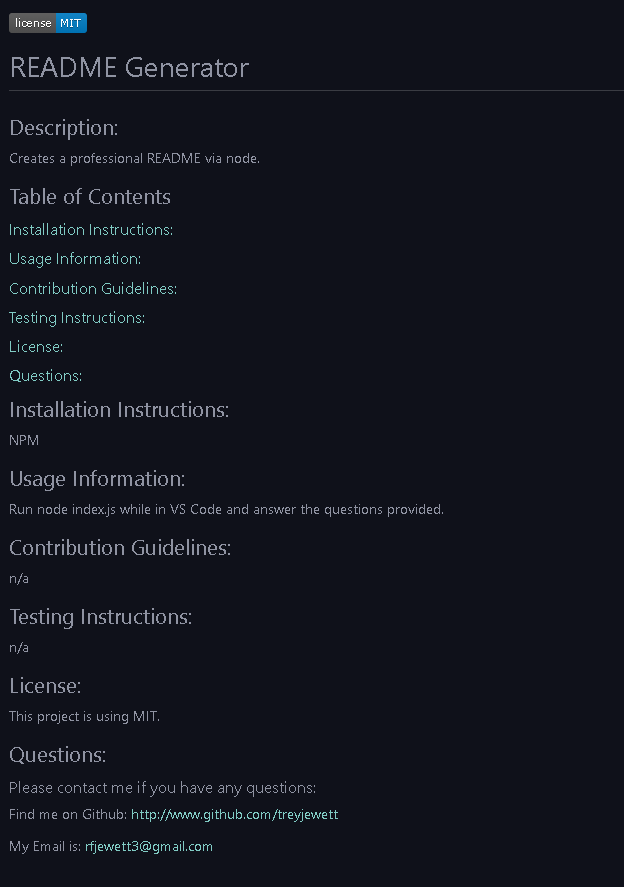
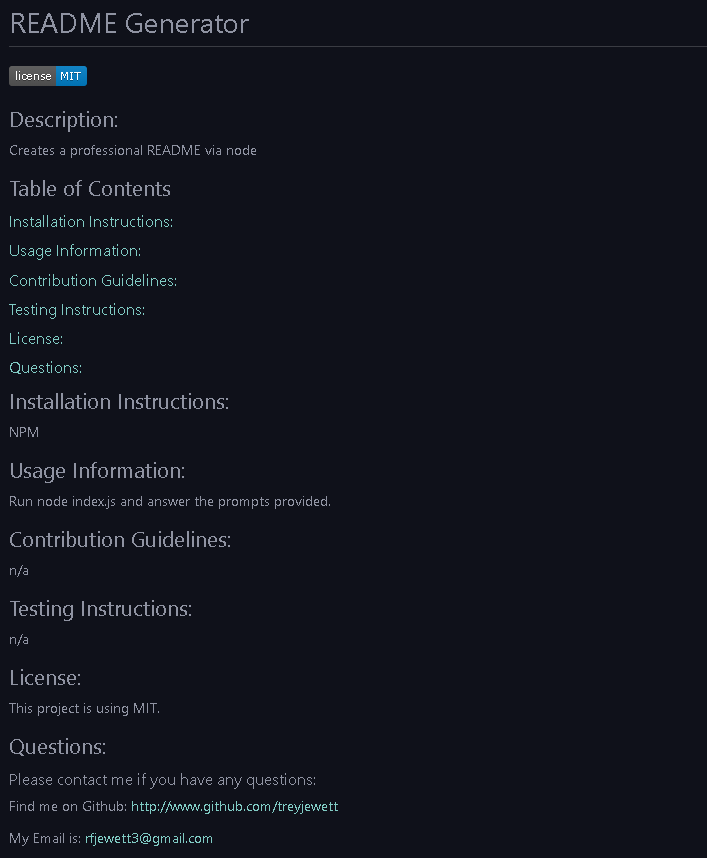
edits license placement. Updates readme

Changed region(s): [[0.0, 0.2121, 0.5481, 1.0], [0.0, 0.0, 0.3958, 0.1818]]

diff --git a/Assets/generateMarkdown.js b/Assets/generateMarkdown.js
@@ -2,9 +2,9 @@
 function generateMarkdown(data) {
   return `
 
-  ![badge](https://img.shields.io/static/v1?label=license&message=${data.license}&color=blue)
-  
   # ${data.title}
+  
+  ![badge](https://img.shields.io/static/v1?label=license&message=${data.license}&color=blue)
 
   ## Description:
 

diff --git a/README.md b/README.md
@@ -5,13 +5,6 @@
 This application provides a professional README using node.
 The user simply answers the questions provided and a README file is generated based on the responses provided.
 
-## The Applicaion
-
-<p align="center">
-<img src="assets\images\Node-Example.png" alt="Example of Node Prompts">
-<img src="assets\images\Readme-example.png" alt="Example of generated README">
-</p>
-
 ## Code Utilized
 
 This application was made using JavaScript.
@@ -27,3 +20,17 @@ When "node index.js" is run:
 ## Walkthrough Video
 
 Click this link to watch a walkthrough video on how this application works:
+
+-------------------------------------------------------------------------
+
+## Examples of the Application
+
+This is what the prompts will look like to the user:
+
+<img src="assets\images\Node-Example.png" alt="Example of Node Prompts">
+
+-------------------------------------------------------------------------
+
+Here is an example of a generated README after all prompts have been answered:
+
+<img src="assets\images\Readme-example.png" alt="Example of generated README">
